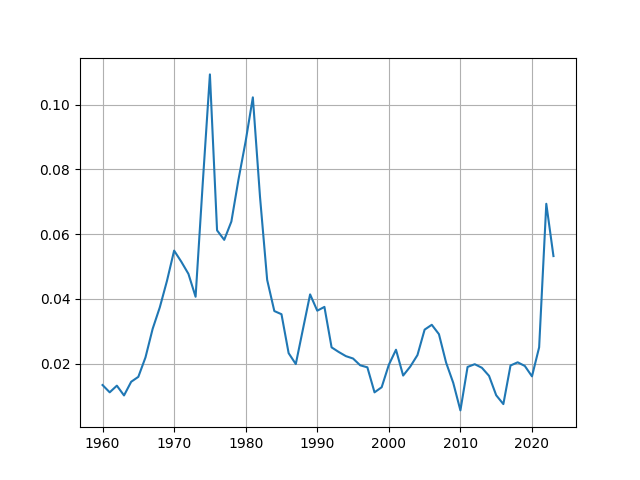
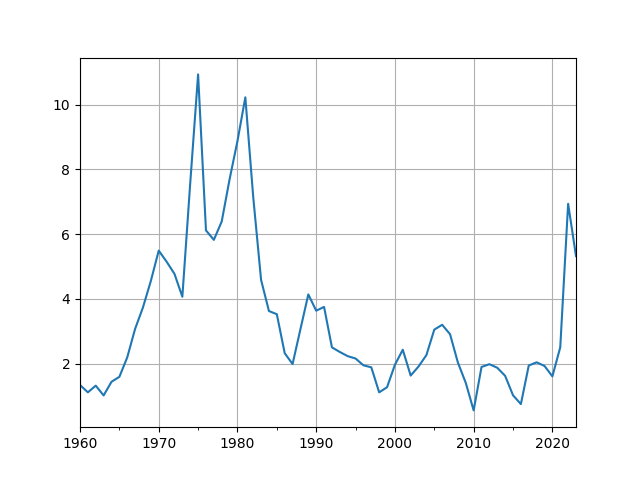
update inflation series

diff --git a/analysis.py b/analysis.py
@@ -67,11 +67,13 @@ def question_two_a():
         # get the year
         year = price_deflator.at[i, 'date'].split("-")[0]
         # get the inflation
-        inflation = (float(price_deflator.at[i, 'value']) / float(price_deflator.at[i-4, 'value'])) - 1
+        inflation = 100 * ((float(price_deflator.at[i, 'value']) / float(price_deflator.at[i - 4, 'value'])) - 1)
         # add to series
         inflation_series[year] = inflation
     # convert to series
     inflation_series = pd.Series(inflation_series)
+    # set x axis to be the year
+    inflation_series.index = pd.to_datetime(inflation_series.index)
     # save to file
     inflation_series.to_csv('data/inflation.csv')
     # plot
@@ -93,7 +95,7 @@ def question_two_b():
         # get the year
         year = price_deflator.at[i, 'date'].split("-")[0]
         # get the inflation
-        inflation = 100 * ((float(price_deflator.at[i, 'value']) / float(price_deflator.at[i-4, 'value'])) - 1)
+        inflation = 100 * ((float(price_deflator.at[i, 'value']) / float(price_deflator.at[i - 5, 'value'])) - 1)
         # add to series
         inflation_series[year] = inflation
     # calculate average inflation rates
@@ -116,7 +118,7 @@ def question_two_b():
         f.write(f"The average inflation rate from 1983Q1 to 2020Q1 was {avg_inflation['1983-2020']}\n")
         f.write(f"The average inflation rate from 2020Q2 to 2023Q4 was {avg_inflation['2020-2023']}\n")
 
-question_two_b()
+# question_two_b()
         
 question_three = """
 (a) Make a figure with both unemployment rates on the same graph (hint: include a legend
